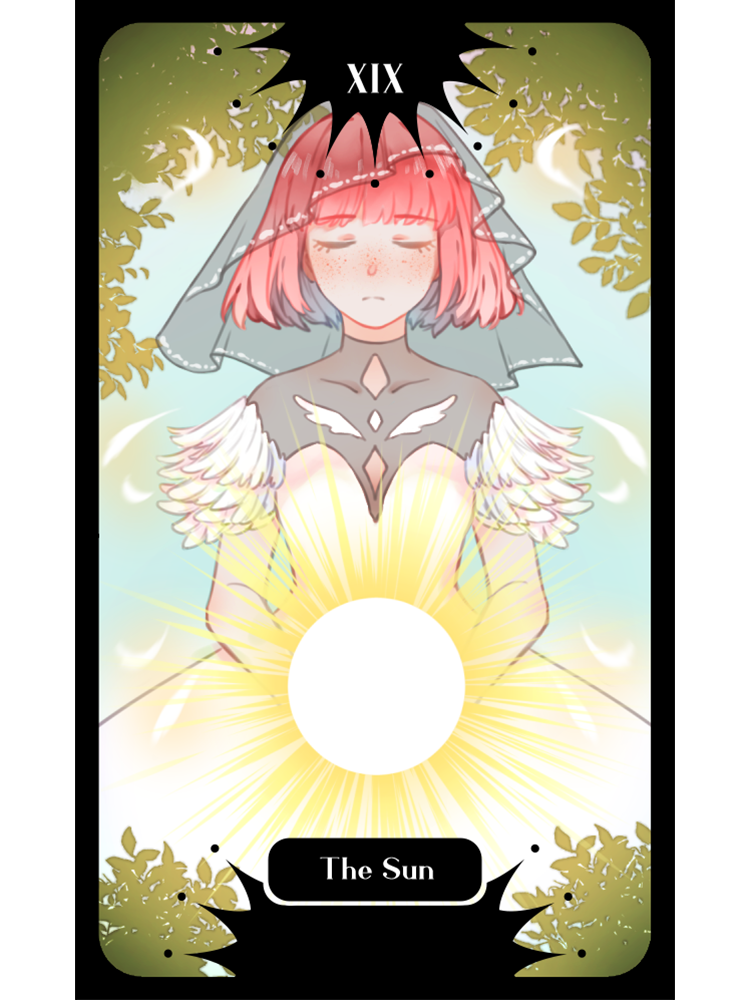
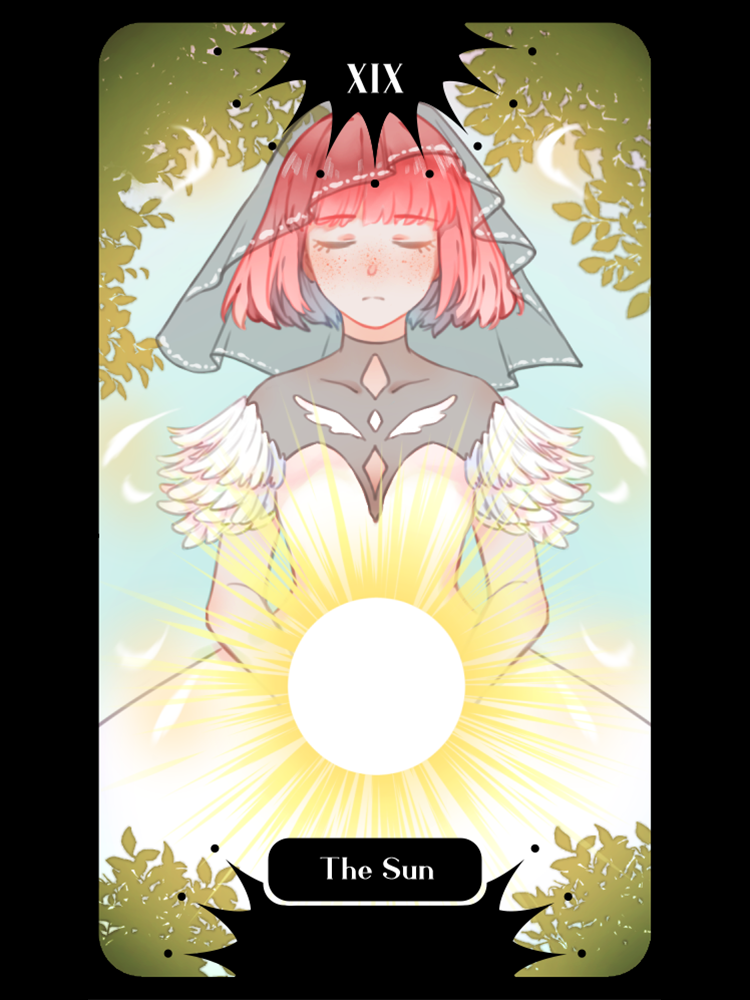
add card tilt effect and card border

Changed region(s): [[0.8893, 0.0, 1.0, 1.0], [0.0, 0.0, 0.1227, 1.0]]

diff --git a/src/components/cardGacha.jsx b/src/components/cardGacha.jsx
@@ -1,8 +1,5 @@
 import { useCallback, useEffect, useMemo, useRef, useState } from "react";
 import { gsap } from "gsap";
-import Particles from "@tsparticles/react";
-import { tsParticles } from "@tsparticles/engine";
-import { loadConfettiPreset } from "@tsparticles/preset-confetti";
 import { ChevronLeft, ChevronRight } from "lucide-react";
 
 import fanart1 from "../assets/gacha/fanart/9s.png";
@@ -176,8 +173,30 @@ const getRandomCard = (cards) => cards[Math.floor(Math.random() * cards.length)]
 const TEAR_Y_FRACTION = 0.25;
 
 function PackCard({ pack, isActive, onClick, interactive = false, hiddenOnMobile = false }) {
+  const btnRef = useRef(null);
+
+  // Track whether this is the initial mount so we don't pop on first render
+  const isFirstRender = useRef(true);
+
+  useEffect(() => {
+    // Skip the pop on the very first render — only fire when isActive changes
+    // after mount (i.e. when the user navigates to this pack)
+    if (isFirstRender.current) {
+      isFirstRender.current = false;
+      return;
+    }
+    if (!isActive || !btnRef.current) return;
+
+    // Subtle pop: scale up slightly then settle back to 1
+    gsap
+      .timeline()
+      .to(btnRef.current, { scale: 1.08, duration: 0.18, ease: "power2.out" })
+      .to(btnRef.current, { scale: 1, duration: 0.28, ease: "elastic.out(1, 0.4)" });
+  }, [isActive]);
+
   return (
     <button
+      ref={btnRef}
       type="button"
       onClick={onClick}
       aria-label={interactive ? `Switch to ${pack.name}` : `${pack.name} pack`}
@@ -226,12 +245,11 @@ function RipPhase({
 
       <div className="mx-auto w-full max-w-75">
         <div
-          className="relative aspect-3/4 rounded-2xl w-full overflow-hidden bg-light"
+          className="relative aspect-3/4 rounded-2xl w-full overflow-hidden bg-light hover:cursor-e-resize"
           onPointerDown={onPointerDown}
           onPointerMove={onPointerMove}
           onPointerUp={onPointerUp}
           onPointerCancel={onPointerUp}
-          style={{ touchAction: "none", cursor: isRipDragging ? "crosshair" : "ew-resize" }}
         >
           {/* Pack label */}
           <div className="absolute inset-0 flex items-center justify-center p-4">
@@ -283,22 +301,22 @@ function RipPhase({
 // ── Reveal phase ──────────────────────────────────────────────────────────────
 // Rendered as a fixed overlay on top of the rip phase. Background is darkened
 // and blurred. Card pops in via GSAP. Confetti fires via tsparticles.
+//
+// The revealed card has two interactions:
+//   • Hover  — pointer position relative to the card drives a 3D tilt via
+//              inline CSS transform (rotateX + rotateY). Tilt is disabled while
+//              the card is flipped so the CSS flip transition runs unobstructed.
+//              On mouse leave, GSAP springs the tilt back to 0,0.
+//   • Click  — flips the card 180° on the Y axis to reveal the description.
 
 function RevealPhase({ revealedCard, onSelectAnother }) {
   const overlayRef = useRef(null);
-  const cardRef = useRef(null);
+  const cardRef = useRef(null); // GSAP entrance target + tilt container
+  const flipRef = useRef(null); // inner flip assembly (receives rotateY)
   const [flipped, setFlipped] = useState(false);
-  const [particlesReady, setParticlesReady] = useState(false);
-
-  // Init tsparticles confetti preset once
-  const particlesInit = useCallback(async () => {
-    await loadConfettiPreset(tsParticles);
-    setParticlesReady(true);
-  }, []);
-
-  useEffect(() => {
-    particlesInit();
-  }, [particlesInit]);
+  // Tracks pointer position (0–100) within the card for the shine gradient
+  const [shinePos, setShinePos] = useState({ x: 50, y: 50 });
+  const [shineVisible, setShineVisible] = useState(false);
 
   // GSAP: fade in overlay, then pop card up
   useEffect(() => {
@@ -315,45 +333,78 @@ function RevealPhase({ revealedCard, onSelectAnother }) {
     );
   }, []);
 
+  // 3D tilt: map pointer position within the card to rotateX/Y.
+  // Also updates shinePos so the specular highlight follows the cursor.
+  // Disabled while flipped so the CSS flip transition runs unobstructed.
+  const handleMouseMove = useCallback(
+    (e) => {
+      if (flipped || !cardRef.current) return;
+      const rect = cardRef.current.getBoundingClientRect();
+      // Normalise pointer to -0.5 … +0.5 relative to card centre
+      const x = (e.clientX - rect.left) / rect.width - 0.5;
+      const y = (e.clientY - rect.top) / rect.height - 0.5;
+      // Max tilt of ±12°; pointer right → positive rotateY, pointer up → positive rotateX
+      gsap.to(cardRef.current, {
+        rotateY: x * 24,
+        rotateX: -y * 24,
+        duration: 0.3,
+        ease: "power2.out",
+        transformPerspective: 900,
+      });
+      // Update shine position as percentage within the card (0–100)
+      setShinePos({
+        x: ((e.clientX - rect.left) / rect.width) * 100,
+        y: ((e.clientY - rect.top) / rect.height) * 100,
+      });
+    },
+    [flipped],
+  );
+
+  // On leave, spring tilt back to neutral and fade the shine out
+  const handleMouseLeave = useCallback(() => {
+    if (!cardRef.current) return;
+    gsap.to(cardRef.current, {
+      rotateX: 0,
+      rotateY: 0,
+      duration: 0.6,
+      ease: "elastic.out(1, 0.4)",
+      transformPerspective: 900,
+    });
+    setShineVisible(false);
+  }, []);
+
+  // Show shine as soon as the pointer enters
+  const handleMouseEnter = useCallback(() => {
+    if (!flipped) setShineVisible(true);
+  }, [flipped]);
+
   return (
     <div
       ref={overlayRef}
       className="fixed inset-0 z-50 flex flex-col items-center justify-center px-6 font-figtree bg-black/70 backdrop-blur-[2px]"
     >
-      {/* Confetti */}
-      {particlesReady && (
-        <Particles
-          id="reveal-confetti"
-          className="absolute inset-0 pointer-events-none"
-          options={{
-            preset: "confetti",
-            particles: { number: { value: 0 } },
-            emitters: {
-              position: { x: 50, y: 30 },
-              rate: { delay: 0.1, quantity: 20 },
-              life: { count: 1, duration: 0.6 },
-            },
-            fullScreen: false,
-          }}
-        />
-      )}
-
       {/* Card name */}
       <p className="text-light text-center text-xl md:text-2xl mb-6 font-semibold">
         {revealedCard.name}
       </p>
 
-      {/* Flippable card */}
+      {/* Tilt + GSAP entrance wrapper — pointer events drive rotateX/Y via GSAP */}
       <div
         ref={cardRef}
-        onClick={() => setFlipped((f) => !f)}
         className="w-full cursor-pointer"
         style={{
           maxWidth: revealedCard.orientation === "landscape" ? "520px" : "360px",
-          perspective: "900px",
+          transformStyle: "preserve-3d",
         }}
+        onMouseEnter={handleMouseEnter}
+        onMouseMove={handleMouseMove}
+        onMouseLeave={handleMouseLeave}
+        onClick={() => setFlipped((f) => !f)}
       >
+        {/* Flip assembly — rotates 180° on Y axis when flipped is true.
+            transformStyle preserve-3d propagates the tilt from the parent. */}
         <div
+          ref={flipRef}
           style={{
             position: "relative",
             width: "100%",
@@ -363,12 +414,10 @@ function RevealPhase({ revealedCard, onSelectAnother }) {
             transition: "transform 0.55s cubic-bezier(0.4, 0, 0.2, 1)",
           }}
         >
-          {/* Front — artwork */}
+          {/* Front face — artwork image + shine overlay */}
           <div
-            className="overflow-hidden rounded-2xl bg-light"
+            className="overflow-hidden rounded-3xl absolute inset-0 p-3 bg-linear-to-br from-customPurple via-customBlue to-customGreen"
             style={{
-              position: "absolute",
-              inset: 0,
               backfaceVisibility: "hidden",
               WebkitBackfaceVisibility: "hidden",
             }}
@@ -376,11 +425,41 @@ function RevealPhase({ revealedCard, onSelectAnother }) {
             <img
               src={revealedCard.img}
               alt={revealedCard.name}
-              className="h-full w-full object-cover"
+              className="h-full w-full object-cover bg-white rounded-2xl"
+            />
+            {/* Reflective shine overlay — a fixed-angle linear gradient band that
+                slides left/right across the card as the mouse moves horizontally.
+                The strip is wider than the card (200% width) so it can travel fully
+                off either edge without clipping abruptly.
+                - Fixed 135° slant (top-right → bottom-left)
+                - backgroundPosition X maps mouse X (0–100%) to band travel (-50%…50%)
+                - pointer-events:none so it never blocks clicks */}
+            <div
+              aria-hidden="true"
+              style={{
+                position: "absolute",
+                inset: 0,
+                borderRadius: "inherit",
+                pointerEvents: "none",
+                opacity: shineVisible ? 1 : 0,
+                transition: "opacity 0.4s ease",
+                background: `linear-gradient(
+                  135deg,
+                  transparent 30%,
+                  rgba(255,255,255,0.1) 40%,
+                  rgba(255,255,255,0.4) 50%,
+                  rgba(255,255,255,0.1) 60%,
+                  transparent 70%
+                )`,
+                // Oversized so the band can slide fully across the card
+                backgroundSize: "200% 200%",
+                // Mouse X 0→100% moves the band from off-left to off-right
+                backgroundPosition: `${shinePos.x}% 0%`,
+              }}
             />
           </div>
 
-          {/* Back — description */}
+          {/* Back face — description; pre-rotated 180° so it reads correctly when flipped */}
           <div
             className="overflow-hidden rounded-2xl bg-light flex items-center justify-center p-6"
             style={{
